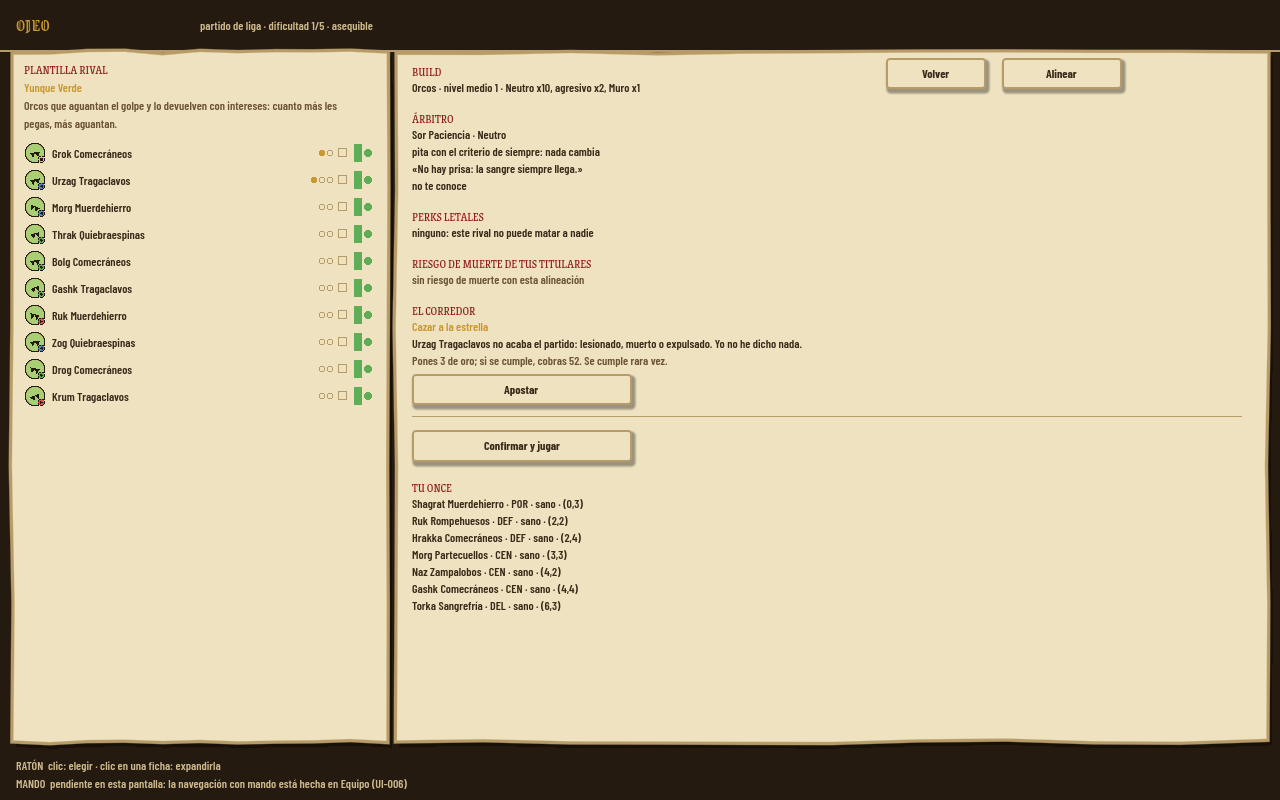
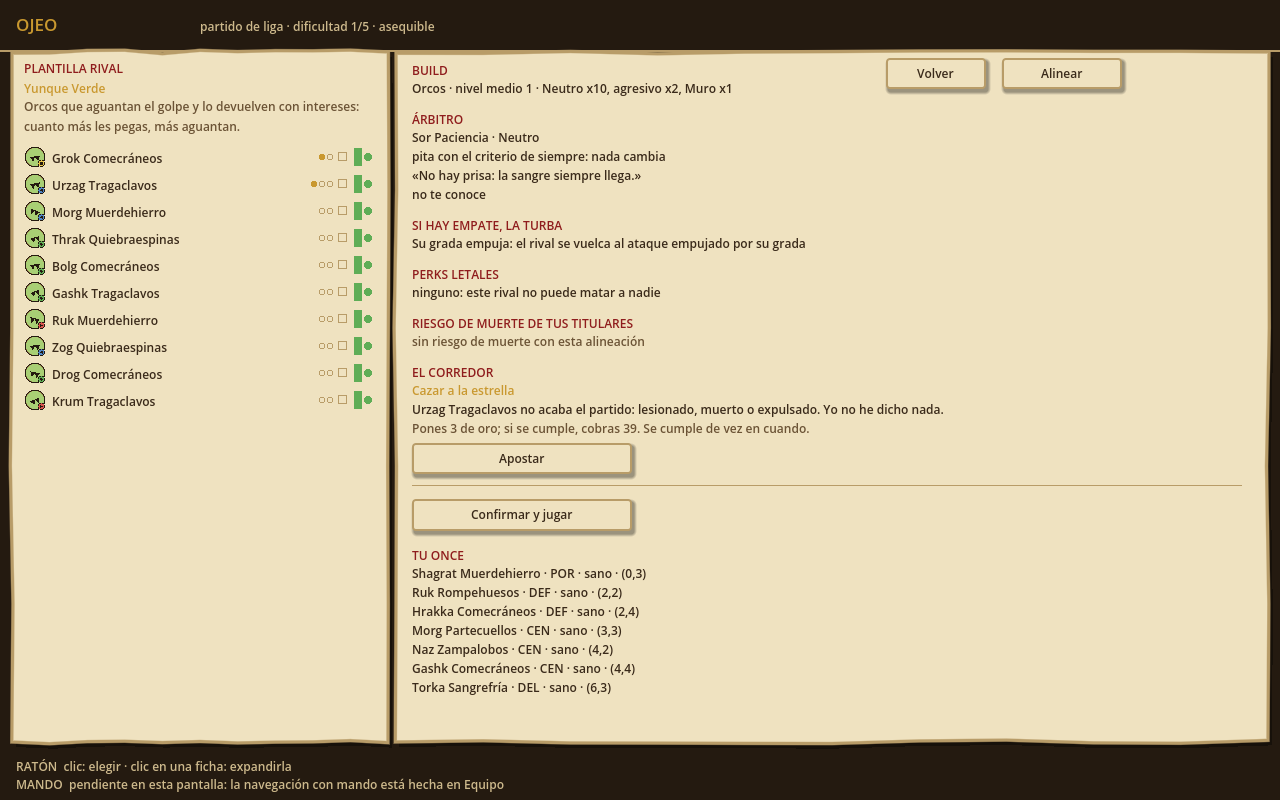
feat(game): el ojeo, el mapa, el pregón y el tablero anuncian el tipo de turba — ADR 0167

diff --git a/Game/Screens/BroadcastScreen.cs b/Game/Screens/BroadcastScreen.cs
@@ -990,8 +990,15 @@ public partial class BroadcastScreen : Control
         }
     }
 
-    private void ShowMobBand() =>
-        _band.Show(UiText.Get("ui.pregon.turba.header"), UiText.Get("ui.pregon.turba.body"));
+    private void ShowMobBand()
+    {
+        // ADR 0167: el pregón dice qué turba es, la misma que anunció el ojeo.
+        var type = _playback.Setup.Mob is { } mob ? _run.Systems?.Mobs.Find(mob.Id) : null;
+        string body = type is null
+            ? UiText.Get("ui.pregon.turba.body")
+            : UiText.Get("ui.pregon.turba.bodyTyped", Data.GameData.Language == "en" ? type.Name.En : type.Name.Es);
+        _band.Show(UiText.Get("ui.pregon.turba.header"), body);
+    }
 
     /// <summary>
     /// BA-H, RF-082/085: anuncio del consumible usado —manual o condicional, el pregón no distingue
@@ -1130,7 +1137,8 @@ public partial class BroadcastScreen : Control
         // ADR 0166: un grito de orden manda mientras dura; el tablero enseña la orden efectiva (la que
         // mueve las líneas) y, con aro, la que puso el jugador, a la que se vuelve.
         var playerOrder = _run.OrderAt(tick);
-        var shouts = MatchShoutView.ActiveAt(_playback.Result.Events, _playback.Setup.Home.Consumables, 0, tick);
+        var shouts = MatchShoutView.ActiveAt(
+            _playback.Result.Events, _playback.Setup.Home.Consumables, 0, tick, _playback.Setup.Mob, _playback.Setup.Away.Consumables);
         _board.SetOrder((int)MatchShoutView.EffectiveOrder(shouts, playerOrder), enabled: CanChangeOrder(), playerIndex: (int)playerOrder);
         _board.SetShouts(BuildShoutInfos(shouts));
         _board.SetConsumables(BuildConsumableButtons());
@@ -1820,6 +1828,17 @@ public partial class BroadcastScreen : Control
         for (int i = 0; i < shouts.Count; i++)
         {
             var shout = shouts[i];
+
+            // ADR 0167: lo que impone la turba al entrar dura hasta el final: sin cuenta atrás (-1) y con su nombre.
+            if (shout.ConsumableId.StartsWith(MatchShoutView.MobPrefix, StringComparison.Ordinal))
+            {
+                string id = shout.ConsumableId[MatchShoutView.MobPrefix.Length..];
+                var type = _run.Systems?.Mobs.Find(id);
+                string name = type is null ? id : Data.GameData.Language == "en" ? type.Name.En : type.Name.Es;
+                result.Add(new BroadcastBoard.ShoutInfo(name, -1, 1f));
+                continue;
+            }
+
             result.Add(new BroadcastBoard.ShoutInfo(
                 _run.ConsumableName(shout.ConsumableId), shout.SecondsLeft, shout.TicksLeft / (float)Math.Max(1, shout.TicksTotal)));
         }

diff --git a/Game/Ui/UiText.cs b/Game/Ui/UiText.cs
@@ -237,6 +237,8 @@ public static class UiText
         ["ui.scout.build"] = "BUILD",
         ["ui.scout.buildLine"] = "{0} · nivel medio {1} · {2}",
         ["ui.scout.referee"] = "ÁRBITRO",
+        ["ui.scout.mob"] = "SI HAY EMPATE, LA TURBA",
+        ["ui.scout.mobLine"] = "{0}: {1}",
         ["ui.scout.refereeLine"] = "{0} · {1}",
         ["ui.scout.refereeCatchphrase"] = "«{0}»",
         ["ui.scout.refereeMemoryKnown"] = "se acuerda de ti: {0}",
@@ -295,6 +297,7 @@ public static class UiText
         ["ui.report.revengeSlain"] = "¡VENGANZA! {0} vengó a {1}: mató a {2}, {3}.",
         ["ui.report.revengeGold"] = "+{0} de oro",
         ["ui.map.nemesis"] = "némesis: {0}, {1}",
+        ["ui.map.mob"] = "turba: {0}",
         ["ui.scout.nemesis"] = "NÉMESIS · {0}, {1}: mató a {2} en el acto {3}. Hoy juega, y con un nivel más.",
         ["ui.scout.nemesisMany"] = "NÉMESIS · {0}, {1}: mató a {2} en el acto {3} y a {4} más. Hoy juega, y con un nivel más.",
         ["ui.scout.rivalRepeat"] = "{0} · {1}.ª vez · {2}",
@@ -787,6 +790,8 @@ public static class UiText
         ["ui.pregon.tray.recommended"] = "recomendado",
         ["ui.pregon.turba.header"] = "Se hace saber: el árbitro abandona el campo",
         ["ui.pregon.turba.body"] = "¡A la turba! · el próximo gol gana",
+        ["ui.pregon.turba.bodyTyped"] = "¡A la turba! · {0} · el próximo gol gana",
+        ["ui.pregon.shout.untilEnd"] = "{0} · hasta el final",
 
         // BA-H, RF-082/085: anuncio del consumible usado (banda sin congelar, igual que la turba) y el
         // rótulo del botón del tablero una vez gastado.

diff --git a/Game/Ui/Broadcast/BroadcastBoard.cs b/Game/Ui/Broadcast/BroadcastBoard.cs
@@ -485,7 +485,10 @@ public partial class BroadcastBoard : Control
         {
             var shout = _shouts[i];
             Pregon.DrawParchment(this, new Vector2(x, Y), Bw, Bh, Pregon.Azur, Pregon.Sable, seed: 60 + i, amplitude: 1.2f, edgeWidth: 2f);
-            string label = UiText.Get("ui.pregon.shout.active", shout.Name, shout.SecondsLeft);
+            // ADR 0167: -1 = hasta el final (lo que impone la turba al entrar).
+            string label = shout.SecondsLeft < 0
+                ? UiText.Get("ui.pregon.shout.untilEnd", shout.Name)
+                : UiText.Get("ui.pregon.shout.active", shout.Name, shout.SecondsLeft);
             Pregon.DrawTextEllipsized(this, Pregon.DataBold, new Vector2(x + 10f, Y + 4f), label, Pregon.SizeDataSmall, Pregon.Vellum, Bw - 20f);
             float trackW = Bw - 20f;
             DrawRect(new Rect2(x + 10f, Y + Bh - 8f, trackW, 4f), Pregon.Sable);

diff --git a/Game/Screens/ScoutScreen.cs b/Game/Screens/ScoutScreen.cs
@@ -304,6 +304,14 @@ public partial class ScoutScreen : Control
 
         y = Block(UiText.Get("ui.scout.referee"), RefereeLines(node), y);
 
+        // ADR 0167: la turba que entra si hay empate, anunciada por su tipo (nunca la víctima), para decidir si
+        // conviene empatar y si merece la pena equipar «Provocar a la grada».
+        if (_run.Systems is { } mobSystems
+            && Underleague.Sim.Run.View.MobView.For(state, node, mobSystems.Mobs, catalog, GameData.Language) is { } mob)
+        {
+            y = Block(UiText.Get("ui.scout.mob"), new[] { UiText.Get("ui.scout.mobLine", mob.Name, mob.Text) }, y);
+        }
+
         // RF-013: los perks letales, destacados. Si no hay ninguno, se dice: la ausencia de amenaza es
         // información igual de accionable que la amenaza.
         var threats = Scouting.LethalPerks(setup.Away, catalog);

diff --git a/Game/Screens/MapScreen.cs b/Game/Screens/MapScreen.cs
@@ -405,6 +405,13 @@ public partial class MapScreen : Control
             {
                 lines.Add(UiText.Get("ui.map.nemesis", line.Name, line.Title));
             }
+
+            // ADR 0167: qué turba entra si hay empate, para elegir el camino sabiéndolo.
+            if (_run.Catalog is { } mobCatalog
+                && Underleague.Sim.Run.View.MobView.For(_run.State!, node, _run.Systems.Mobs, mobCatalog, Data.GameData.Language) is { } mob)
+            {
+                lines.Add(UiText.Get("ui.map.mob", mob.Name));
+            }
         }
 
         // Qué árbitro pita y su rasgo en corto (ADR 0158 §6, RF-061): la decisión de qué partido elegir
